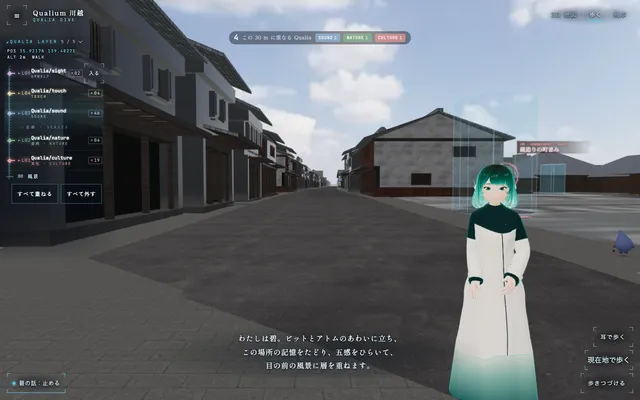
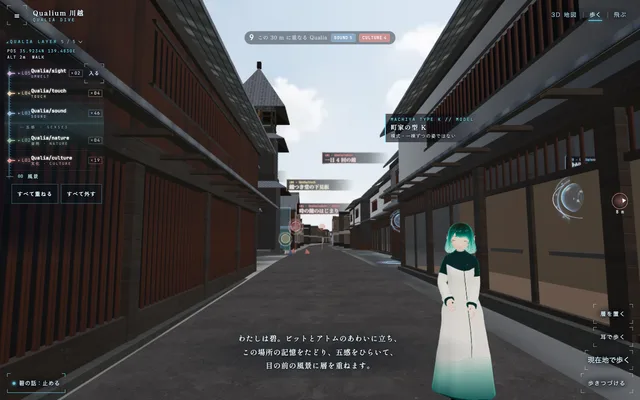
Qualium 川越: score polish (x/12) + poster

diff --git a/x/12/web/app/app.js b/x/12/web/app/app.js
@@ -7,8 +7,8 @@
 import * as THREE from "three";
 import { GLTFLoader } from "three/addons/loaders/GLTFLoader.js";
 import { MeshoptDecoder } from "three/addons/libs/meshopt_decoder.module.js";
-import { QLAYERS, makeMarker, makeLabel, glowTex } from "./layers.js?v=k1";
-import { makeQMarks, placeLabels } from "./qmarks.js?v=q4";
+import { QLAYERS, makeMarker, makeLabel, glowTex } from "./layers.js?v=k2";
+import { makeQMarks, placeLabels } from "./qmarks.js?v=q5k";
 import { kuraMats, kuraGeos, machiGeos, bellGeos, W0, D0 } from "./kura.js?v=k8";
 import { BellSynth } from "./bell.js?v=k1";
 import { makeHereWalk } from "./herewalk.js?v=2";
@@ -364,11 +364,13 @@ function buildSolids() {
   if (!SOLID.P.length) return;
   const TL = new THREE.TextureLoader(), ld = (u, srgb) => { const t = TL.load(u); t.wrapS = t.wrapT = THREE.RepeatWrapping; if (srgb) t.colorSpace = THREE.SRGBColorSpace; t.anisotropy = MOBILE ? 4 : 8; return t; };
   const g = new THREE.BufferGeometry(); g.setAttribute("position", new THREE.Float32BufferAttribute(SOLID.P, 3)); g.setAttribute("uv", new THREE.Float32BufferAttribute(SOLID.U, 2)); g.setAttribute("wuv", new THREE.Float32BufferAttribute(SOLID.W, 4)); g.setAttribute("color", new THREE.Float32BufferAttribute(SOLID.C, 3)); g.computeVertexNormals();
-  const m = new THREE.MeshStandardMaterial({ normalMap: ld("web/tex/plaster_n.webp"), normalScale: new THREE.Vector2(.6, .6), roughnessMap: ld("web/tex/plaster_r.webp"), vertexColors: true, roughness: .92, metalness: 0 });
+  const m = new THREE.MeshStandardMaterial({ map: ld("web/tex/plaster_c.webp", true), normalMap: ld("web/tex/plaster_n.webp"), normalScale: new THREE.Vector2(.6, .6), roughnessMap: ld("web/tex/plaster_r.webp"), vertexColors: true, roughness: .92, metalness: 0 });   // 2026-10-26 採点「近寄ると単色の箱」→ 漆喰の写真の肌理（Poly Haven CC0）を色にも
+  const tPlank = ld("web/tex/bplank_c.webp", true);
   // 壁の面に、模式の窓・店先のガラス・階の目地・足もとの汚れを描く（一棟ずつの実際の窓の位置ではない）
   m.onBeforeCompile = sh => {
+    sh.uniforms.tPlank = { value: tPlank };
     sh.vertexShader = sh.vertexShader.replace("#include <common>", "#include <common>\nattribute vec4 wuv; varying vec4 vW;").replace("#include <uv_vertex>", "#include <uv_vertex>\nvW = wuv;");
-    sh.fragmentShader = sh.fragmentShader.replace("#include <common>", "#include <common>\nvarying vec4 vW;").replace("#include <roughnessmap_fragment>", `#include <roughnessmap_fragment>
+    sh.fragmentShader = sh.fragmentShader.replace("#include <common>", "#include <common>\nvarying vec4 vW; uniform sampler2D tPlank;\nfloat hS(float x){return fract(sin(x*127.1)*43758.5);}\nfloat nS(float x){float i=floor(x),f=fract(x);f=f*f*(3.-2.*f);return mix(hS(i),hS(i+1.),f);}").replace("#include <roughnessmap_fragment>", `#include <roughnessmap_fragment>
       if (vW.y > -5.) {
         float u = vW.x, v = vW.y, H = vW.z, L = vW.w, gl = 0., fr = 0.;
         float edge = L < 3.4 ? step(.25, fract(u / 1.7)) * step(fract(u / 1.7), .75) : step(1.2, u) * step(u, L - 1.2);   // 壁の端は窓にしない（2026-10-25 短い面が続く輪郭も、窓のない板にしない）
@@ -379,6 +381,14 @@ function buildSolids() {
         float cap = step(H - .35, v);                                           // 屋上の縁
         vec3 glass = mix(vec3(.10, .13, .16), vec3(.36, .44, .52), clamp((v - .3) / max(1., H), 0., 1.) * .6 + .15);
         diffuseColor.rgb *= 1. - base * .35 - joint * .18 - cap * .12;
+        // 2026-10-26 近寄っても箱に見えないように：腰板（焼杉の板・模式）・雨だれの筋・軒下の陰
+        float koshi = step(v, .95) * step(-.2, v);
+        vec3 pk = texture2D(tPlank, vec2(u / 1.4, v / 1.4)).rgb * vec3(.42, .36, .31);
+        diffuseColor.rgb = mix(diffuseColor.rgb, pk, koshi * (1. - gl) * (1. - fr));
+        float streak = nS(u * 2.3) * nS(u * .61 + 7.) ; float drip = smoothstep(.35, .9, streak) * smoothstep(H, H - 2.6, v) * step(.95, v);
+        diffuseColor.rgb *= 1. - drip * .28 * (1. - gl);
+        diffuseColor.rgb *= 1. - smoothstep(H - 1.2, H - .1, v) * .22 * (1. - cap);
+        diffuseColor.rgb *= .9 + .2 * nS(u * .35 + v * .2 + 3.);
         diffuseColor.rgb = mix(diffuseColor.rgb, vec3(.16, .15, .14), fr * .75);
         diffuseColor.rgb = mix(diffuseColor.rgb, glass, gl);
         roughnessFactor = mix(roughnessFactor, .18, gl);
@@ -452,12 +462,12 @@ function stepLayer(dt) {
   for (const L of LAYER.objs) {
     const on = LAYER.worn.includes(top5(L.layer)) && QW.mode !== "sight", d = Math.hypot(L.o.x - cp.x, L.o.z - cp.z);
     const want = on ? (sky ? 1 : d < 140 ? 1 : 0) : 0; L.show += (want - L.show) * Math.min(1, dt * 4);
-    const vis = L.show > .02; L.root.visible = vis; L.lb.visible = vis && (sky ? false : d < 34);
+    const vis = L.show > .02; L.root.visible = vis; L.lb.visible = vis && (sky ? false : d < 58);   // 2026-10-26 遠くの目印も名を読めるように 34→58 m
     if (!vis) continue;
     const k = sky ? Math.min(14, Math.max(2.5, camera.position.distanceTo(L.root.position) / 60)) : 1;
     L.root.scale.setScalar(k * (.4 + .6 * L.show)); L.glyph.rotation.y = t * .6; L.glyph.position.y = (L.o.h || 1.8) + Math.sin(t * 1.4 + L.o.x) * .05;
     for (const m of L.mats) m.opacity = (m === L.fm ? .1 : m === L.bm ? .55 : .9) * L.show;
-    if (L.lb.visible) { L.lb.material.opacity = Math.min(1, (34 - d) / 8) * L.show; const ls = Math.max(1, d / 9); L.lb.scale.set(1.6 * ls, .4 * ls, 1); }   // 遠くても字が小さくなりすぎない
+    if (L.lb.visible) { L.lb.material.opacity = Math.min(1, (58 - d) / 8) * L.show; const ls = Math.max(1, d / 9); L.lb.scale.set(1.6 * ls, .4 * ls, 1); }   // 遠くても字が小さくなりすぎない
   }
   LAYER.qm?.update(camera, { t, sky, focus: !$("#panel").hidden ? PANEL.cur : null });
   if (!(LAYER.sweepT > t)) { LAYER.sweepT = t + 1.5; landSweep(); }
@@ -486,7 +496,7 @@ function stepHere(cp, t, off) {
   const v = new THREE.Vector3(L.o.x, L.root.position.y + (L.o.h || 1.8), L.o.z).applyMatrix4(camera.matrixWorldInverse);
   if (v.z < 0 && Math.abs(v.x / -v.z) < 1 && Math.abs(v.y / -v.z) < .8) { QH.dir.hidden = true; return; }
   const a = Math.atan2(v.x, -v.z), W = innerWidth, H = innerHeight, x = Math.max(MOBILE ? 30 : 270, Math.min(W - 30, W / 2 + Math.sin(a) * (W / 2 - 40))), y = Math.max(MOBILE ? 340 : 140, Math.min(H - (MOBILE ? 300 : 150), H * .55 - Math.cos(a) * (H * .55 - 150)));
-  let X = x, Y = y; { const cap = $("#caption"); if (cap && !cap.hidden) { const r = cap.getBoundingClientRect(); if (X > r.left - 50 && X < r.right + 50 && Y > r.top - 60) Y = r.top - 60; } }   // 2026-10-26 字幕・碧に重ねない
+  let X = x, Y = y; { const cap = $("#caption"); if (cap && !cap.hidden) { const r = cap.getBoundingClientRect(); if (X > r.left - 50 && X < r.right + 50 && Y > r.top - 60 && Y < r.bottom + 60) Y = r.top - 60; } Y = Math.max(MOBILE ? 150 : 120, Y); }   // 上のタブに重ねない   // 2026-10-26 字幕・碧に重ねない
   if (AOI.root?.visible) { const w = new THREE.Vector3(); AOI.root.getWorldPosition(w); w.project(camera); const ax = (w.x + 1) / 2 * innerWidth; if (w.z < 1 && Math.abs(X - ax) < 130 && Y > innerHeight * .35) X = ax + (X < ax ? -150 : 150); X = Math.max(30, Math.min(innerWidth - 30, X)); }
   QH.dir.hidden = false; QH.dir.style.transform = `translate(${X - 18}px,${Y - 18}px)`; QH.dir.firstElementChild.style.transform = `rotate(${a}rad)`;
   QH.dir.style.setProperty("--c", GL[L.layer].color); QH.dir.lastElementChild.textContent = `${Math.round(Math.hypot(L.o.x - cp.x, L.o.z - cp.z))} m`;
@@ -497,7 +507,7 @@ function declutter(dt) {
   const now = performance.now(); if (!DC.ls || now - DC.t > 500) { DC.t = now; DC.ls = $("#lstack").getBoundingClientRect(); }   // 画面の部品の位置は 0.5 秒ごとに読む（毎こま読むと重い）
   const ls = DC.ls, avoid = [...(LAYER.qm?.rects || [])]; if (ls.width) avoid.push({ x0: 0, x1: ls.right + 14, y0: 0, y1: ls.bottom + 14 });
   const cp = camera.position, list = []; for (const L of LAYER.objs) if (L.lb.visible) list.push({ sp: L.lb, L, d: Math.hypot(L.o.x - cp.x, L.o.z - cp.z), pri: !$("#panel").hidden && PANEL.cur === L ? 1 : 0 });
-  if (list.length) placeLabels(THREE, camera, list, avoid, dt);
+  if (list.length) placeLabels(THREE, camera, list, avoid, dt, MOBILE ? 16 : 22);   // 2026-10-26 採点「遠くの目印が読み取れない」→ 札の字の高さに下限
 }
 function pickObj(x, y) {
   const r = new THREE.Raycaster(), p = new THREE.Vector2(x / innerWidth * 2 - 1, -(y / innerHeight) * 2 + 1); r.setFromCamera(p, camera);
@@ -605,7 +615,7 @@ function loadAoi() {
   })().catch(e => console.warn("碧の姿を読み込めませんでした：", e?.message ?? e));
 }
 function aoiSpot(out) {
-  const f = MOBILE ? 4.0 : 2.4, s = MOBILE ? .45 : 1.1, fx = -Math.sin(CAM.yaw), fz = -Math.cos(CAM.yaw);
+  const f = MOBILE ? 4.0 : 3.5, s = MOBILE ? .45 : 1.25,   /* 2026-10-26 PC で碧の体が画面の下で切れない距離に 2.4→3.5 */ fx = -Math.sin(CAM.yaw), fz = -Math.cos(CAM.yaw);
   const n = nearestOnLine(CAM.pos.x, CAM.pos.z), a = atD(n.d), rx = -fz, rz = fx;
   const side = !$("#panel").hidden && !MOBILE ? -1 : ((a.x - CAM.pos.x) * rx + (a.z - CAM.pos.z) * rz) >= 0 ? 1 : -1;
   out.set(CAM.pos.x + fx * f + rx * s * side, 0, CAM.pos.z + fz * f + rz * s * side);
@@ -705,7 +715,7 @@ const offRoute = (x, z) => nearestOnLine(x, z).dist > 14;
 function solids(p, r = .35) {   // 店蔵の型と時の鐘には入らない（向きのある箱から押し出す）
   const push = (cx, cz, yaw, hw, hd) => { const c = Math.cos(yaw), s = Math.sin(yaw), dx = p.x - cx, dz = p.z - cz, lx = dx * c - dz * s, lz = dx * s + dz * c;
     if (Math.abs(lx) < hw + r && Math.abs(lz) < hd + r) { const ox = hw + r - Math.abs(lx), oz = hd + r - Math.abs(lz); let nx = lx, nz = lz; if (ox < oz) nx = Math.sign(lx || 1) * (hw + r); else nz = Math.sign(lz || 1) * (hd + r); p.x = cx + nx * c + nz * s; p.z = cz - nx * s + nz * c; } };
-  for (const k of G.kura) if (Math.abs(k.x - p.x) < 12 && Math.abs(k.z - p.z) < 12) push(k.x, k.z, k.yaw, k.w / 2, k.dp / 2 + .9);
+  for (const k of G.kura) if (Math.abs(k.x - p.x) < 12 && Math.abs(k.z - p.z) < 12) push(k.x, k.z, k.yaw, k.w / 2, k.dp / 2 + 1.8);   // 2026-10-26 採点「壁の手前で画面いっぱいが縦じま」→ 蔵の正面から約 2.2 m で止める
   for (const k of G.machi || []) if (Math.abs(k.x - p.x) < 12 && Math.abs(k.z - p.z) < 12) push(k.x, k.z, k.yaw, k.w / 2, k.dp / 2 + .6);
   if (KURA.tower) push(KURA.tower.position.x, KURA.tower.position.z, KURA.tower.rotation.y, 2.4, 2.4);
   solidRings(p);

diff --git a/x/12/web/app/qmarks.js b/x/12/web/app/qmarks.js
@@ -6,26 +6,14 @@
    ・足もとの輪にも同じ紋。近づくと（約 10 m→4 m）輪と紋がひらき、触れると層の中身へ広がる。
    ・遠くは柱と輪だけを強め、紋は描かない（見つけやすさ）。描くのは 5 回だけ（すべて InstancedMesh）。
    使い方：const QM = makeQMarks(THREE, parent, n); QM.add(L, color, kind) … 毎こま QM.update(camera, { t, focus, sky })
+   2026-10-26 夜 v5：結晶を球に（本人「目印を球体に」）。屈折風の縁・流れる層の膜・球の中に光る紋。
    kind＝0 sight・1 touch・2 sound・3 nature・4 culture。 */
 
 const KIND = { sight: 0, touch: 1, sound: 2, nature: 3, culture: 4 };
 
 function crystalGeo(THREE) {
-  const pr = [];
-  const N = 24;
-  for (let i = 0; i <= N; i++) {
-    const a = i / N;
-    const y = -.42 + a * .98;
-    const r = a < .38 ? Math.sin(Math.acos(1 - a / .38 * 1.0)) * .30 + .0001 : .30 * Math.pow(1 - (a - .38) / .62, 1.25) + .0001;
-    pr.push(new THREE.Vector2(Math.max(.0001, r), y));
-  }
-  const SEG = 32, g = new THREE.LatheGeometry(pr, SEG);
-  const p = g.attributes.position;
-  for (let i = 0; i < p.count; i++) { const y = p.getY(i), k = Math.max(0, y + .05); p.setX(i, p.getX(i) + k * k * 1.05); }
-  g.computeVertexNormals();
-  const nr = g.attributes.normal, P = pr.length, _a = new THREE.Vector3(), _b = new THREE.Vector3();
-  for (let j = 0; j < P; j++) { const i0 = j, i1 = SEG * P + j; _a.fromBufferAttribute(nr, i0); _b.fromBufferAttribute(nr, i1); _a.add(_b).normalize(); nr.setXYZ(i0, _a.x, _a.y, _a.z); nr.setXYZ(i1, _a.x, _a.y, _a.z); }
-  return g;
+  // 2026-10-26 本人「Qualium は目印を球体にしてください」→ v5：滑らかな球（半径 .34・中心 0.07）
+  const g = new THREE.SphereGeometry(.34, 40, 24); g.translate(0, .07, 0); return g;
 }
 
 const VS_COMMON = /* glsl */`
@@ -65,9 +53,11 @@ export function makeQMarks(THREE, parent, cap, mobile = false, opt = {}) {
   };
   // 結晶：屈折風の虹の縁・切子のきらめき・芯の灯り
   const crystal = mk(crystalGeo(THREE), VS_COMMON + /* glsl */`
-    void main(){ vCol=iCol; vP=iP; vQ=iQ; mat4 mw=modelMatrix*instanceMatrix; vec4 w=mw*vec4(position,1.); vW=w.xyz; vL=position; vN=normalize(mat3(mw)*normal); gl_Position=projectionMatrix*viewMatrix*w; }`,
-  /* glsl */`uniform float uT; varying vec3 vCol; varying vec4 vP; varying vec2 vQ; varying vec3 vW; varying vec3 vL; varying vec3 vN;
-    vec3 film(float x){ return .5+.5*cos(6.2832*(x+vec3(0.,.33,.67))); }
+    varying vec3 vC; varying float vR;
+    void main(){ vCol=iCol; vP=iP; vQ=iQ; mat4 mw=modelMatrix*instanceMatrix; vec4 w=mw*vec4(position,1.); vW=w.xyz; vL=position; vN=normalize(mat3(mw)*normal);
+      vC=(mw*vec4(0.,.07,0.,1.)).xyz; vR=length(mw[0].xyz)*.34; gl_Position=projectionMatrix*viewMatrix*w; }`,
+  /* glsl */`uniform float uT; varying vec3 vCol; varying vec4 vP; varying vec2 vQ; varying vec3 vW; varying vec3 vL; varying vec3 vN; varying vec3 vC; varying float vR;
+    vec3 film(float x){ return .5+.5*cos(6.2832*(x+vec3(0.,.33,.67))); }` + EMB + /* glsl */`
     void main(){
       vec3 n=normalize(vN); vec3 v=normalize(cameraPosition-vW); if(!gl_FrontFacing) n=-n; float nv=clamp(abs(dot(n,v)),0.,1.);
       float fr=pow(1.-nv,2.4);
@@ -83,6 +73,12 @@ export function makeQMarks(THREE, parent, cap, mobile = false, opt = {}) {
       vec3 rim=mix(sat, sat*film(fr*1.4+vL.y*.6+uT*.05)*1.6, .42*crisp);       // 縁の薄膜の色ずれ（層の色を芯に）
       vec3 c=sat*(.2+.32*dif)+sat*core*(.6+op*.5)+rim*fr*(1.6+crisp*.9)+vec3(1.)*pow(fr,4.)*(.3+crisp*.4)+vec3(1.)*(spec*(.6+crisp*.5)+glint*crisp);
       float a=(.14+.08*crisp+core*.16+fr*.8+spec*.45+glint*.5)*(.66+.34*em);
+      // 球の中に光る層の紋（見る向きの平面に写す）と、ゆっくり流れる層の膜
+      vec3 R=vec3(viewMatrix[0][0],viewMatrix[1][0],viewMatrix[2][0]), U=vec3(viewMatrix[0][1],viewMatrix[1][1],viewMatrix[2][1]);
+      vec2 q=vec2(dot(vW-vC,R),dot(vW-vC,U))/max(1e-4,vR);
+      float inner=emb(q*.95, vQ.x, uT)*smoothstep(.2,.7,nv)*crisp*(.35+.65*op);
+      float memb=ln(fract(vL.y*5.-uT*.12+.3*sin(atan(vL.z,vL.x)*2.+uT*.2))-.5,.05)*fr*.5*crisp;
+      c+=sat*1.5*inner+rim*memb; a+=inner*.55+memb*.3;
       gl_FragColor=vec4(c*(1.+em*.4+op*.25),clamp(a,0.,.94)*vP.x);
       #include <colorspace_fragment>
     }`, 7, THREE.NormalBlending);
@@ -211,14 +207,16 @@ export function makeQMarks(THREE, parent, cap, mobile = false, opt = {}) {
    近い札（選んだ札が先）から順に置く。重なるときは上へ一段ずつ逃がし（3 段まで）、それでも重なる遠い札はうすく消す。
    list: [{ sp, d, pri }]  sp＝makeLabel の札（center 0,0）。sp.userData.by に、ずらす前の高さ（親の中での y）を入れておく。
    avoid: 画面の上の範囲 [{x0,x1,y0,y1}]（結晶＝QM.rects、層の一覧など）。札の不透明度は呼ぶ前に決めておく（ここで掛ける）。 */
-export function placeLabels(THREE, cam, list, avoid = [], dt = .016) {
+export function placeLabels(THREE, cam, list, avoid = [], dt = .016, minPx = 0) {   // 2026-10-26 川越：minPx＝遠くの札も読める字の高さまで大きくする
   const W = innerWidth, H = innerHeight, put = [], V = THREE.Vector3;
   const a = placeLabels._a || (placeLabels._a = new V()), b = placeLabels._b || (placeLabels._b = new V()), sc = placeLabels._s || (placeLabels._s = new V()), ps = placeLabels._p || (placeLabels._p = new V());
   list.sort((p, q) => (q.pri || 0) - (p.pri || 0) || p.d - q.d);
   const hit = r => { for (const q of put) if (r.x0 < q.x1 && r.x1 > q.x0 && r.y0 < q.y1 && r.y1 > q.y0) return true; for (const q of avoid) if (r.x0 < q.x1 && r.x1 > q.x0 && r.y0 < q.y1 && r.y1 > q.y0) return true; return false; };
   for (const e of list) {
     const sp = e.sp, u = sp.userData; if (u.by == null) u.by = sp.position.y; u.sl ??= 0; u.f ??= 0;
+    if (minPx) { u.bs = sp.scale.clone(); sp.scale.copy(u.bs); }
     sp.position.y = u.by; sp.getWorldPosition(a); sp.getWorldScale(sc); sp.parent?.getWorldScale(ps);
+    if (minPx && a.z !== undefined) { const t = a.clone(), t2 = a.clone(); t2.y += sc.y; t.project(cam); t2.project(cam); const hp = Math.abs(t2.y - t.y) / 2 * H; if (t.z < 1 && hp > .5 && hp < minPx) { const f = Math.min(3.2, minPx / hp); sp.scale.copy(u.bs).multiplyScalar(f); sp.getWorldScale(sc); } }
     b.copy(a); b.y += sc.y; a.project(cam); b.project(cam);
     let slot = -1;
     if (a.z < 1 && sp.visible) {

diff --git a/x/12/index.html b/x/12/index.html
@@ -17,9 +17,9 @@
 {"imports": {"three": "./web/vendor/hikawa-runtime-170-355.js", "@pixiv/three-vrm": "./web/vendor/hikawa-runtime-170-355.js", "three/addons/loaders/GLTFLoader.js": "./web/vendor/hikawa-runtime-170-355.js", "three/addons/libs/meshopt_decoder.module.js": "./web/vendor/hikawa-runtime-170-355.js"}}
 </script>
 <!-- 2026-10-26 起動 5 秒：本体と部品・中身の表を HTML と同時に読みはじめる（回線の往復を 2 段へらす） -->
-<link rel="modulepreload" href="web/app/app.js?v=20261026q">
-<link rel="modulepreload" href="web/app/layers.js?v=k1">
-<link rel="modulepreload" href="web/app/qmarks.js?v=q4">
+<link rel="modulepreload" href="web/app/app.js?v=20261026k3">
+<link rel="modulepreload" href="web/app/layers.js?v=k2">
+<link rel="modulepreload" href="web/app/qmarks.js?v=q5k">
 <link rel="modulepreload" href="web/app/kura.js?v=k8">
 <link rel="modulepreload" href="web/app/bell.js?v=k1">
 <link rel="modulepreload" href="web/app/herewalk.js?v=2">
@@ -492,7 +492,7 @@ body #panel{--pc:var(--lc,var(--pc0,#9bdcf0));background:none!important;box-shad
 
 #sightUI .smodel{font-size:10.5px;opacity:.72;letter-spacing:.02em}
 
-@media (max-width:640px){body[data-mode="walk"] #caption{left:86px!important}}   /* 2026-10-24 閉じた層の一覧（短い名前つき）と碧の語りを重ねない */
+@media (max-width:640px){body[data-mode="walk"] #caption{left:var(--g)!important;right:var(--g)!important;top:auto!important;bottom:calc(max(12px,env(safe-area-inset-bottom)) + 236px)!important}body[data-mode="walk"] #capText{font-size:13px;letter-spacing:0}}   /* 2026-10-26 採点「スマホで字幕の帯が層の一覧にかかる」→ 字幕は左下（右のボタンの列と碧の話のボタンの上）へ。層の一覧と離す */   /* 2026-10-24 閉じた層の一覧（短い名前つき）と碧の語りを重ねない */
 /* 2026-10-25 触れたときの札のボタン（鳴らす・止める ほか）は、縦の枠に積まず、字幕の下の一行の透過の文字に（カードに見せない） */
 #pExp{display:flex!important;flex-wrap:wrap;justify-content:center;align-items:center;gap:2px 6px!important}
 #pExp>.ml-btn{flex:0 0 auto!important;width:auto!important;min-width:0!important;margin:0!important;padding:0 14px!important;min-height:44px;background:none!important;box-shadow:none!important;font-family:var(--serif);font-size:14px!important;letter-spacing:.18em!important;color:rgba(236,248,251,.88)!important;text-shadow:0 1px 3px rgba(0,0,0,.9)!important;position:relative}
@@ -584,6 +584,6 @@ body #panel{--pc:var(--lc,var(--pc0,#9bdcf0));background:none!important;box-shad
 <script>if(!window.WebGLRenderingContext){document.body.insertAdjacentHTML("beforeend",'<p style="position:fixed;inset:auto 16px 40% 16px;text-align:center;line-height:1.8">この端末では 3D を表示できません。</p>');window.MLLoader&&MLLoader.done();}</script>
 <script type="module">
 const t = setInterval(() => { const q = window.__qw; if (q && q.ready) { clearInterval(t); window.MLLoader && MLLoader.done(); } }, 60);
-import("./web/app/app.js?v=20261026m").catch(e => { console.error(e); window.MLLoader && MLLoader.done(); });
+import("./web/app/app.js?v=20261026k3").catch(e => { console.error(e); window.MLLoader && MLLoader.done(); });
 </script>
 </body></html>

diff --git a/x/12/web/app/layers.js b/x/12/web/app/layers.js
@@ -113,7 +113,7 @@ function mixHex(a, b, t) { const p = h => [1, 3, 5].map(i => parseInt(h.slice(i,
 export function makeLabel(no, layer, title, color) {
   const W = 512, H = 128, cv = document.createElement("canvas"); cv.width = W; cv.height = H; const x = cv.getContext("2d");
   // 2026-10-22 箱をやめ、視野に重なる札に：左の細い線と角だけ。字の下だけ、横にうすく暗く（明るい空や地面でも読める）
-  const gr = x.createLinearGradient(0, 0, W, 0); gr.addColorStop(0, "rgba(3,6,15,.6)"); gr.addColorStop(.7, "rgba(3,6,15,.3)"); gr.addColorStop(1, "rgba(3,6,15,0)");
+  const gr = x.createLinearGradient(0, 0, W, 0); gr.addColorStop(0, "rgba(3,6,15,.72)"); gr.addColorStop(.7, "rgba(3,6,15,.4)"); gr.addColorStop(1, "rgba(3,6,15,0)");
   x.fillStyle = gr; x.fillRect(0, 22, W, 84);
   x.fillStyle = color; x.fillRect(0, 18, 3, 92); x.fillRect(0, 18, 22, 2); x.fillRect(0, 108, 22, 2);
   // 2026-10-22 夜 電脳の HUD の字：番号と層は細いモノスペースで層の色に光り、名前は層の色を帯びた明朝。暗い影の上に、色のにじむ光を重ねる
@@ -125,7 +125,7 @@ export function makeLabel(no, layer, title, color) {
   glow(title, 22, 94, mixHex(color, "#f2fbff", .7), 14);
   x.shadowBlur = 0; x.shadowColor = "transparent";
   const t = new THREE.CanvasTexture(cv); t.colorSpace = THREE.SRGBColorSpace; t.anisotropy = 4;
-  const s = new THREE.Sprite(new THREE.SpriteMaterial({ map: t, transparent: true, depthWrite: false, depthTest: true, fog: true }));
+  const s = new THREE.Sprite(new THREE.SpriteMaterial({ map: t, transparent: true, depthWrite: false, depthTest: true, fog: false }));   // 2026-10-26 遠くの札が霧で淡くならないように
   s.center.set(0, 0); s.scale.set(1.6, .4, 1); s.renderOrder = 6; return s;
 }
 
